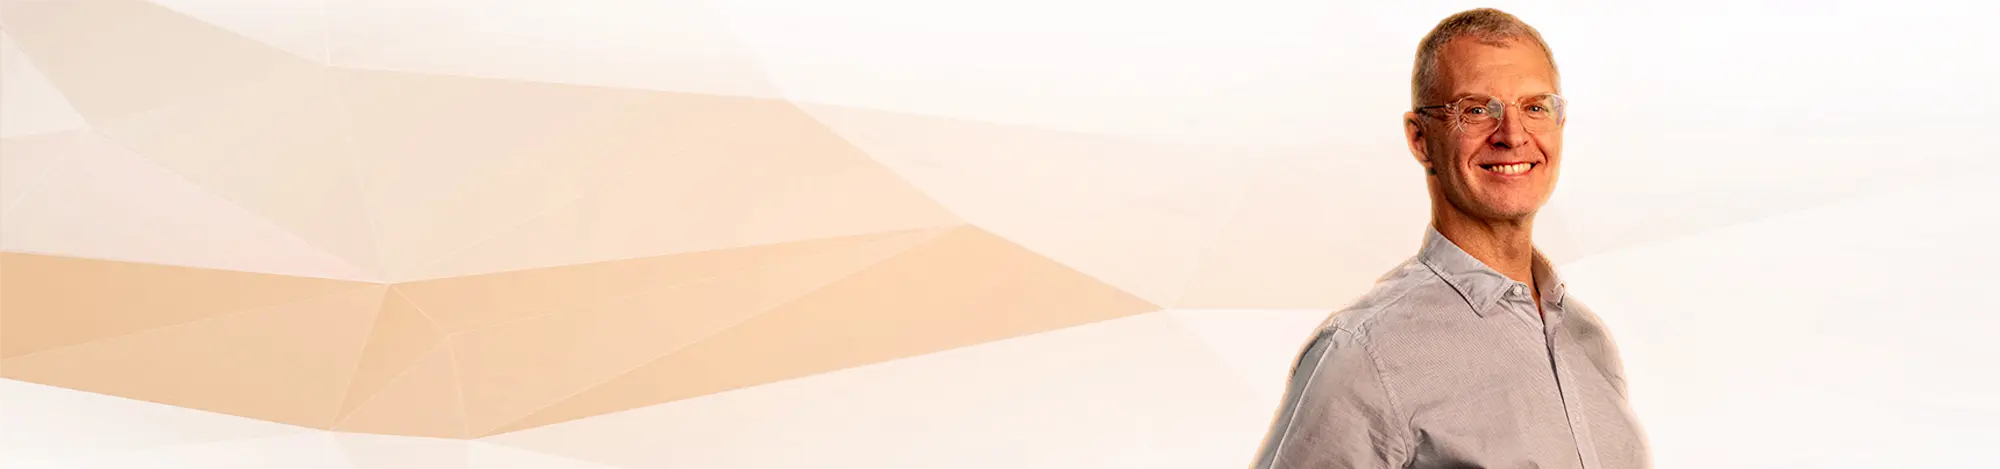
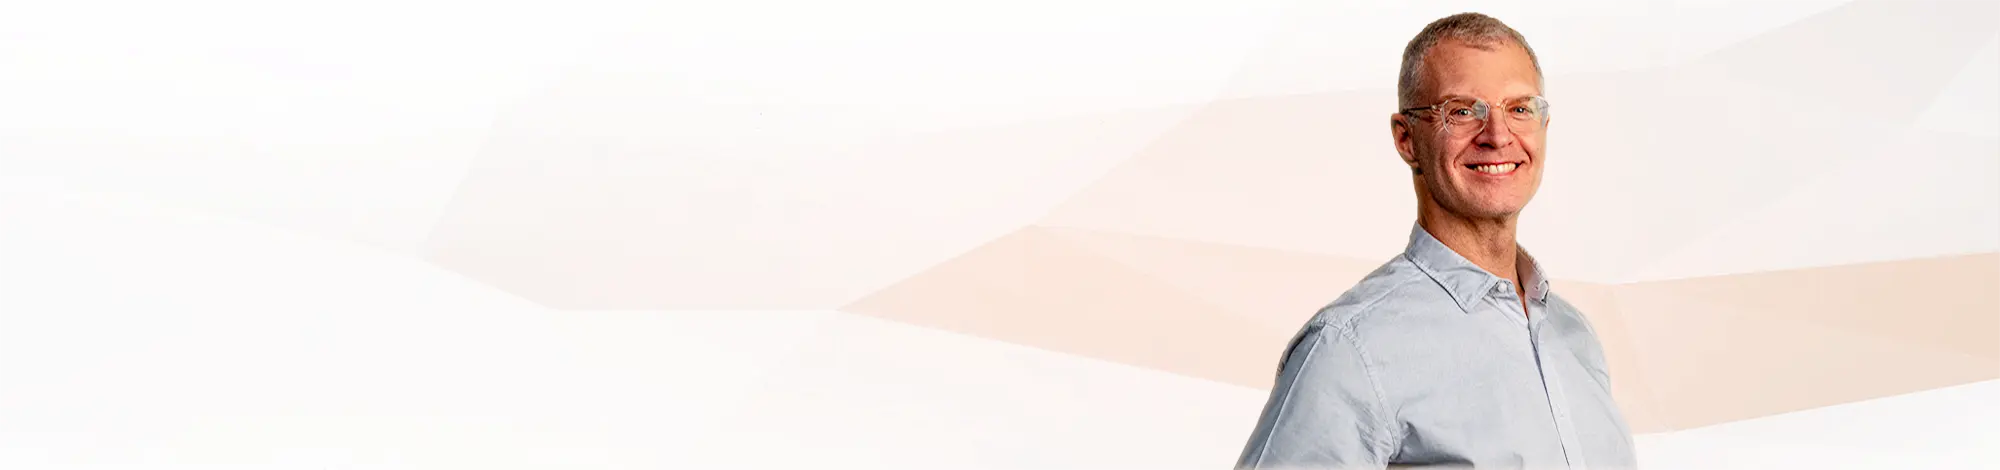
changes

diff --git a/about.html b/about.html
@@ -98,7 +98,7 @@
     </header>
     <main>
         <div id="owner_profile" class="grid_1-1 breakout_container">
-            <div><img src="dummy_imgs/danny-ocean-ehUYU820lcA-unsplash.jpg" alt="dummy"></div>
+            <div><img src="webp/omjonen.webp" alt="dummy"></div>
             <div>
                 <h1>Jon Hollesen</h1>
                 <p>Mød Jon Hollesen, visionæren bag Aria og dedikeret stemmeekspert.</p>
@@ -134,32 +134,9 @@
                     tror på, at hver stemme fortjener at blive hørt, og vores kurser stræber efter at frigøre det fulde
                     potentiale i hver enkelt deltager.
                 </p>
-                <!-- <p>Velkommen til Aria - skolen for sang og stemmebrug, hvor lyden af potentiale møder ekspertise. Aria
-                    er dedikeret til at
-                    forme og forfine stemmer gennem specialiserede kurser og terapeutisk vejledning, og vi trækker på de
-                    unikke metoder fra
-                    VoiceEmbodiments og Alexanderteknikken.</p> -->
-
-                <!-- <p>Aria skiller sig ud ved at tilbyde skræddersyede kurser i stemme- og talebrug til kor,
-                    organisationer og erhvervslivet.
-                    Vores tilgang kombinerer teknikker fra Anne Rosing Metoden med harmonisering af kroppens
-                    spændingstilstande og
-                    kropsarbejde baseret på Alexander-teknikken. Dette skaber en helhedsorienteret tilgang til
-                    stemmetræning, der ikke kun
-                    forbedrer stemmeydeevnen, men også skaber en dybere forbindelse mellem stemme, krop og sind.</p> -->
-
-                <!-- <p>Aria's essens er ikke kun i undervisningen, men også i skabelsen af en varm og støttende atmosfære.
-                    Vi tror på, at hver
-                    stemme fortjener at blive hørt, og vores kurser stræber efter at frigøre det fulde potentiale i hver
-                    enkelt deltager.</p> -->
-
-                <!-- <p>Træd ind i Aria's verden, hvor vi ikke kun underviser i stemme; vi former stemmer til at resonere
-                    med selvsikkerhed,
-                    klarhed og autenticitet.
-                </p> -->
             </div>
             <div>
-                <img src="dummy_imgs/COLOURBOX59214101.jpg" alt="dummy" class="order">
+                <img src="webp/jonkirke.webp" alt="dummy">
                 <img src="dummy_imgs/COLOURBOX55814575.jpg" alt="dummy">
             </div>
         </div>

diff --git a/css/style.css b/css/style.css
@@ -225,7 +225,7 @@ ul li {
   display: none;
   position: relative;
   height: 700px;
-  background-image: url(../dummy_imgs/austin-distel-h1RW-NFtUyc-unsplash.jpg);
+  background-image: url(../webp/kontaktjon.webp);
   background-size: cover;
 }
 
@@ -753,6 +753,7 @@ footer a {
     max-width: 400px;
     border-radius: 5px;
     border: 2px solid white;
+    background-color: #ebd5bd;
   }
 
   #owner_profile > div:last-child {
@@ -795,6 +796,9 @@ footer a {
     border: 2px solid white;
   }
 
+  #aria_profile img:first-child {
+    object-position: 50% 40%;
+  }
   #aria_profile img:last-child {
     margin: 0;
   }

diff --git a/index.html b/index.html
@@ -184,7 +184,7 @@
             <div>
                 <a href="products_org.html">
                     <p class="tagline">Skab din unikke lyd</p>
-                    <h3>Solo undervisning</h3>
+                    <h3>Soloundervisning</h3>
                     <p>Tag dine sangevner til det næste niveau med privat sangundervisning hos Aria. Jon Hollesen guider
                         dig gennem teknikker og metoder til at optimere din performance.</p>
                 </a>
